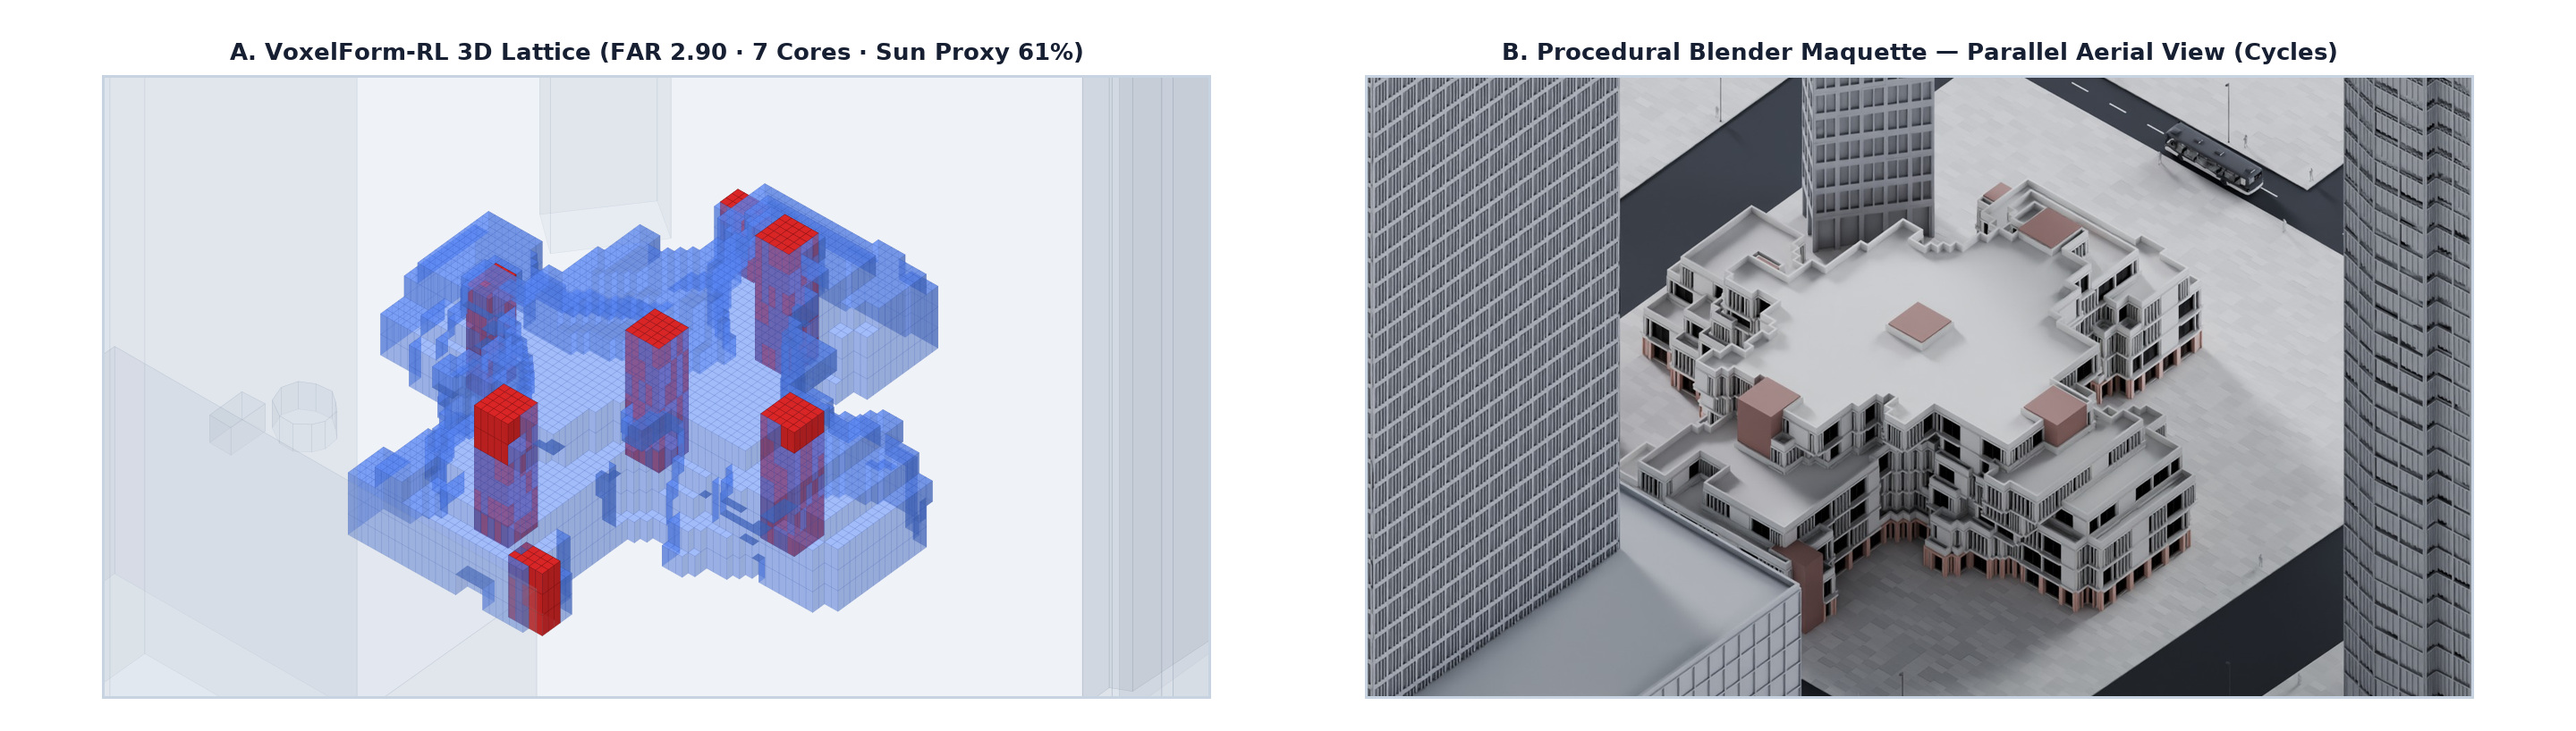
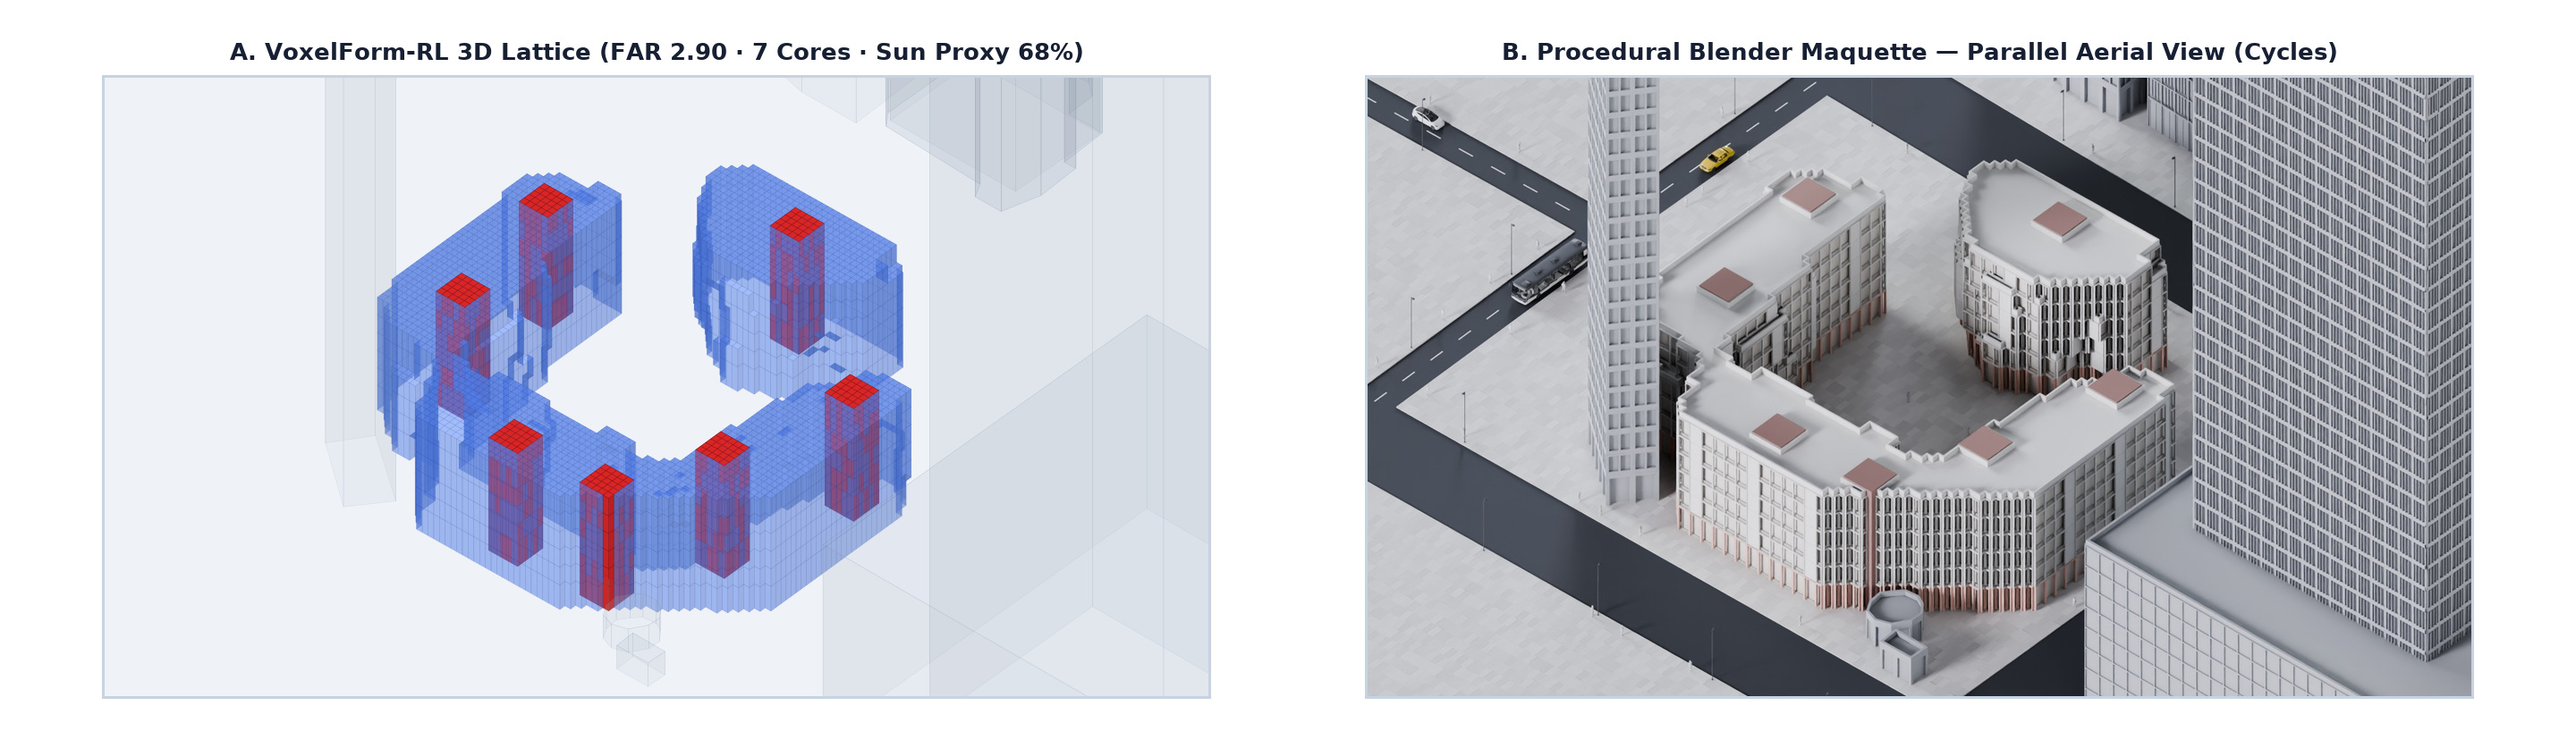
Update Singapore showcase plate to FAR-gated Option 3A with bright recessed glazing

diff --git a/tools/export_blender_site.py b/tools/export_blender_site.py
@@ -488,7 +488,7 @@ def _load_policy(
     if saved.get("configHash") not in (cfg.fingerprint, manifest_hash):
         raise ValueError("Checkpoint configHash does not match run config")
 
-    if cfg.multiscale_schedule == "tier_adaptive":
+    if cfg.multiscale_schedule != "none":
         policy = CoarseToFineLearner(
             dev,
             seed=seed,
@@ -500,6 +500,7 @@ def _load_policy(
             evaluation_noise_scale=noise,
             lr=1.2e-3,
             decoder_retry_schedule=cfg.decoder_retry_schedule,
+            spatial_aux_mode=cfg.spatial_aux_mode,
         )
     else:
         policy = UnifiedLearner(
@@ -545,8 +546,11 @@ def _run_trained_episode(
 
     if isinstance(policy, CoarseToFineLearner):
         coarse_envs = (
-            tuple(CoarseEnv(env, blk) for blk in tier_cascade_blocks(env))
-            if cfg.multiscale_schedule == "tier_adaptive"
+            tuple(
+                CoarseEnv(env, blk)
+                for blk in tier_cascade_blocks(env, schedule=cfg.multiscale_schedule)
+            )
+            if cfg.multiscale_schedule != "none"
             else ()
         )
         res = run_cascade_episode(
@@ -558,6 +562,7 @@ def _run_trained_episode(
             training=False,
             rollout_steps=cfg.rollout_steps,
             audit_steps=cfg.audit_steps,
+            reward_profile=cfg.reward_profile,
         )
         obj = float(res["rawObjective"])
         diag = res["diagnostics"]

diff --git a/tools/blender_import_site.py b/tools/blender_import_site.py
@@ -123,8 +123,8 @@ def _apply_hero_facades(
         set_mod_input(m_cw, "GF Height", gf_h)
         set_mod_input(m_cw, "Grid Module", float(spec["grid_module"]))
         set_mod_input(m_cw, "Opaque Every N Bays", int(spec.get("opaque_step", 0)))
-        set_mod_input(m_cw, "Delete Glass", False)
-        set_mod_input(m_cw, "Use Backing", False)
+        set_mod_input(m_cw, "Delete Glass", True)
+        set_mod_input(m_cw, "Use Backing", True)
         return
 
     m_id = _add_gn_mod(obj, "Assign Panel ID", "Assign Panel ID")
@@ -144,7 +144,8 @@ def _apply_hero_facades(
     m_swap = _add_gn_mod(obj, "Panel Swap", "Panel Swap")
     set_mod_input(m_swap, "Collection", bpy.data.collections[spec["collection"]])
     set_mod_input(m_swap, "Realize and Merge", False)
-    _add_gn_mod(obj, "Facade Glazing", "Facade Glazing")
+    m_fg = _add_gn_mod(obj, "Facade Glazing", "Facade Glazing")
+    set_mod_input(m_fg, "Delete Glass", True)
 
 
 def _apply_context_facades(

diff --git a/tools/blender_render_showcase.py b/tools/blender_render_showcase.py
@@ -92,6 +92,25 @@ def write_axonometric_camera(scene, camera, path):
 
 
 def render_views(args):
+    hdri_root = Path(__file__).resolve().parent.parent / "blender" / "hdris"
+    for img in bpy.data.images:
+        raw_path = getattr(img, "filepath", "") or ""
+        if not raw_path:
+            continue
+        resolved = Path(bpy.path.abspath(raw_path))
+        readable = False
+        if resolved.is_file():
+            try:
+                with resolved.open("rb"):
+                    readable = True
+            except OSError:
+                readable = False
+        if not readable:
+            fallback = hdri_root / Path(raw_path.replace("\\", "/")).name
+            if fallback.is_file():
+                img.filepath = str(fallback.resolve())
+                img.reload()
+
     scene = bpy.context.scene
     camera = scene.camera
     hero = bpy.data.collections.get("01_Hero_Building")
